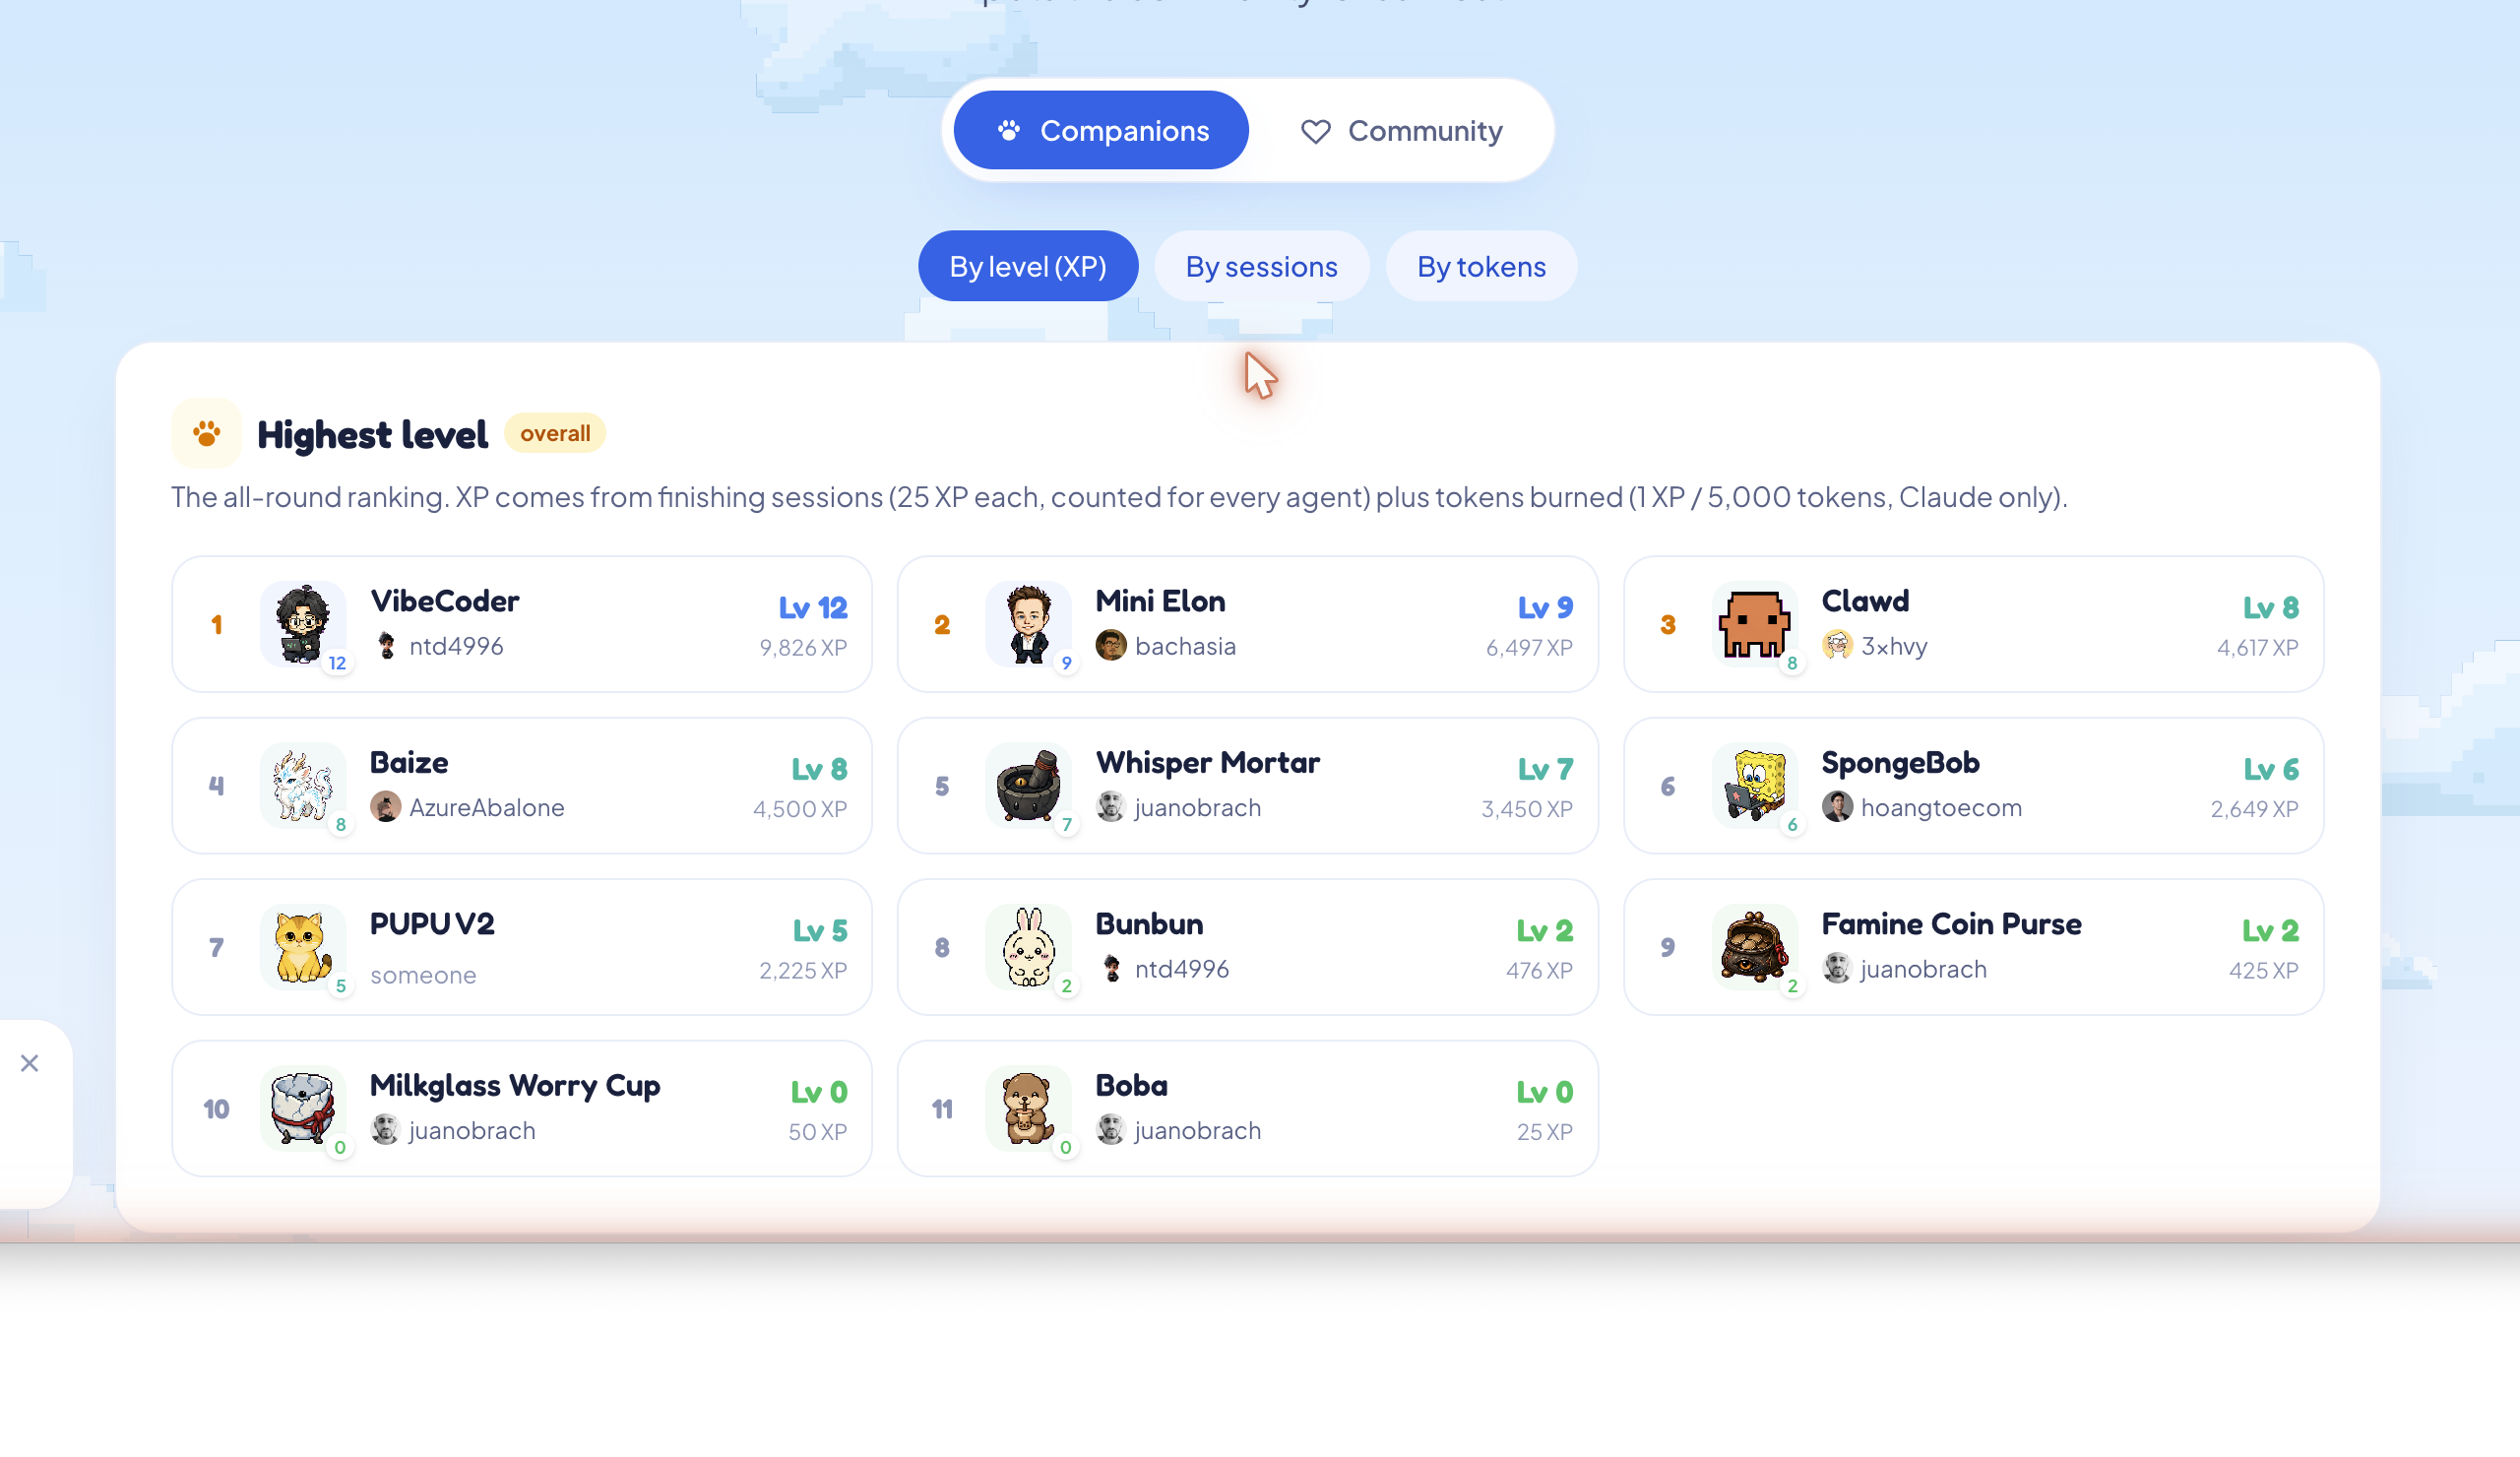
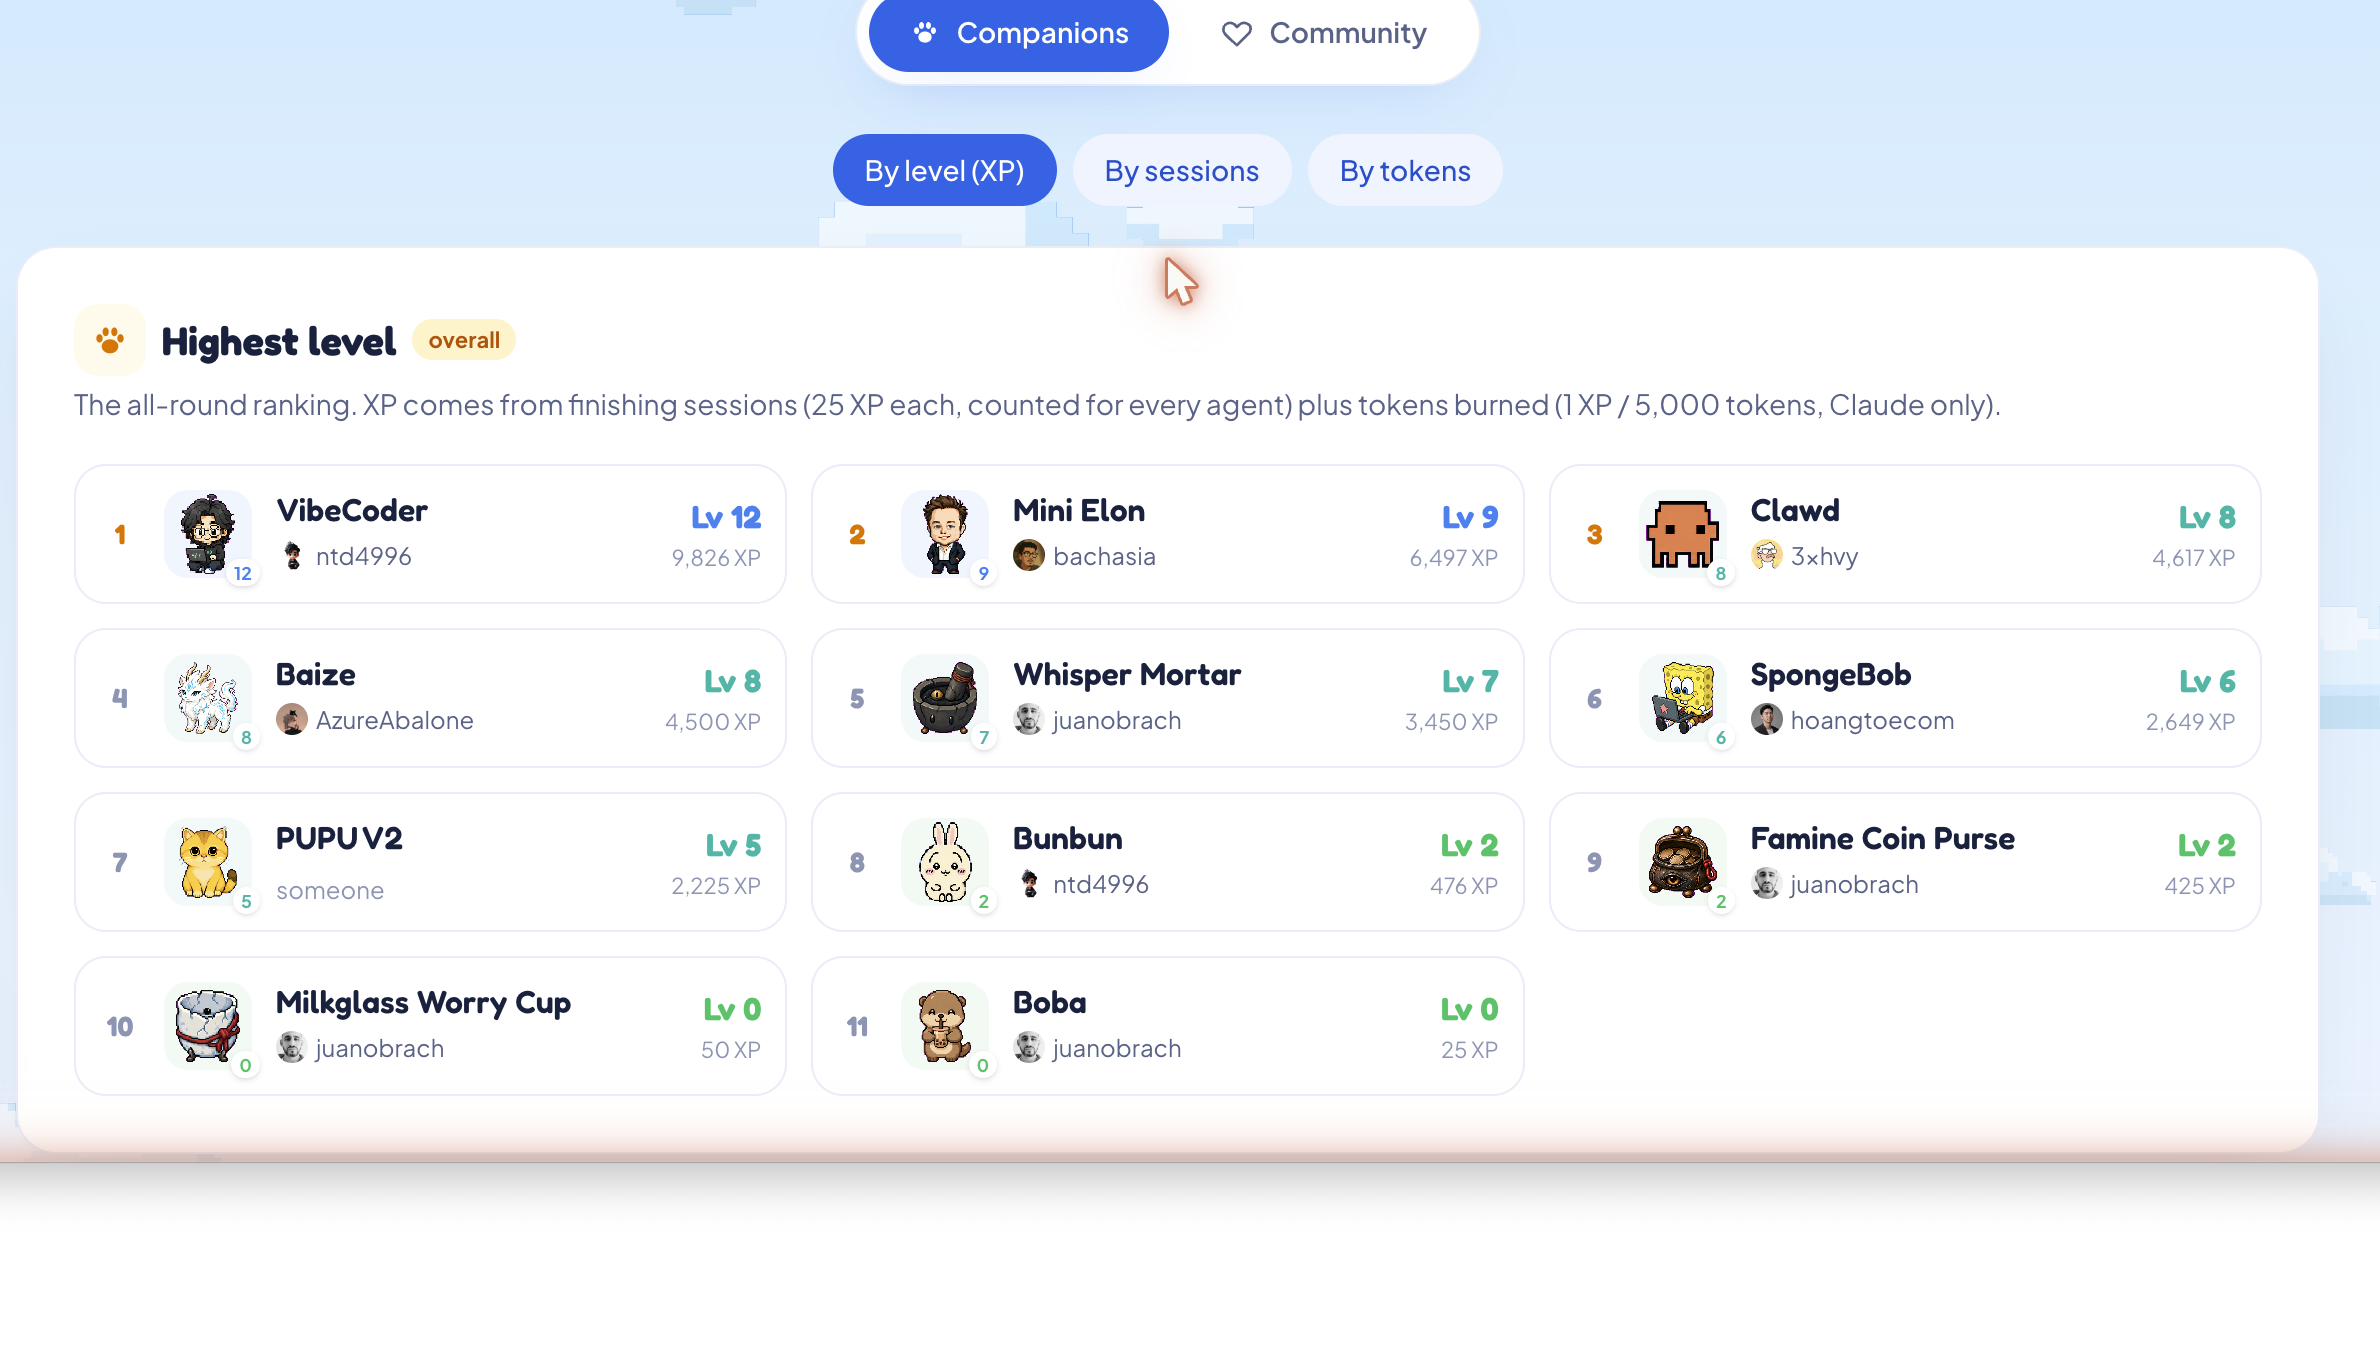
docs: cleaner screenshot layout with HUD hero shot + aligned 2x2 grid

diff --git a/README.md b/README.md
@@ -42,13 +42,25 @@ Running multiple agents in parallel means constantly switching windows to check 
 ## Screenshots
 
 <div align="center">
-  <img src="assets/screenshot-menubar.png" width="360" alt="Menu bar monitor" />
-  <img src="assets/screenshot-settings.png" width="360" alt="Settings" />
-  <img src="assets/screenshot-pet.png" width="360" alt="Pet" />
-  <img src="assets/screenshot-care.png" width="360" alt="Pet care: level, XP and subscription limits" />
+  <img src="assets/screenshot-hud.png" width="300" alt="Right-click the pet for a stats HUD: level, XP, hunger, 7-day burn and live subscription limits" />
+  <p><sub><b>Right-click the pet</b> for a game-style HUD , level, XP, hunger, a 7-day burn chart and your live Claude/Codex limits.</sub></p>
+</div>
+
+<table align="center">
+  <tr>
+    <td align="center" width="50%"><img src="assets/screenshot-menubar.png" width="380" alt="Menu bar monitor" /><br/><sub>Menu bar monitor , every agent at a glance</sub></td>
+    <td align="center" width="50%"><img src="assets/screenshot-care.png" width="380" alt="Pet care tab" /><br/><sub>Care tab , raise your pet with real work</sub></td>
+  </tr>
+  <tr>
+    <td align="center" width="50%"><img src="assets/screenshot-settings.png" width="380" alt="Settings" /><br/><sub>Native, tabbed Settings</sub></td>
+    <td align="center" width="50%"><img src="assets/screenshot-pet.png" width="380" alt="Desktop pet" /><br/><sub>The desktop pet</sub></td>
+  </tr>
+</table>
+
+<div align="center">
   <br/>
-  <img src="assets/screenshot-leaderboard.png" width="600" alt="Community leaderboard of raised companions" />
-  <br/>
+  <img src="assets/screenshot-leaderboard.png" width="660" alt="Community leaderboard of raised companions" />
+  <p><sub>Community <a href="https://agentpet.thenightwatcher.online/leaderboard">leaderboard</a> , by level, sessions or tokens.</sub></p>
   <img src="assets/demo.gif" width="600" alt="Pet reacting to agent activity" />
 </div>
 